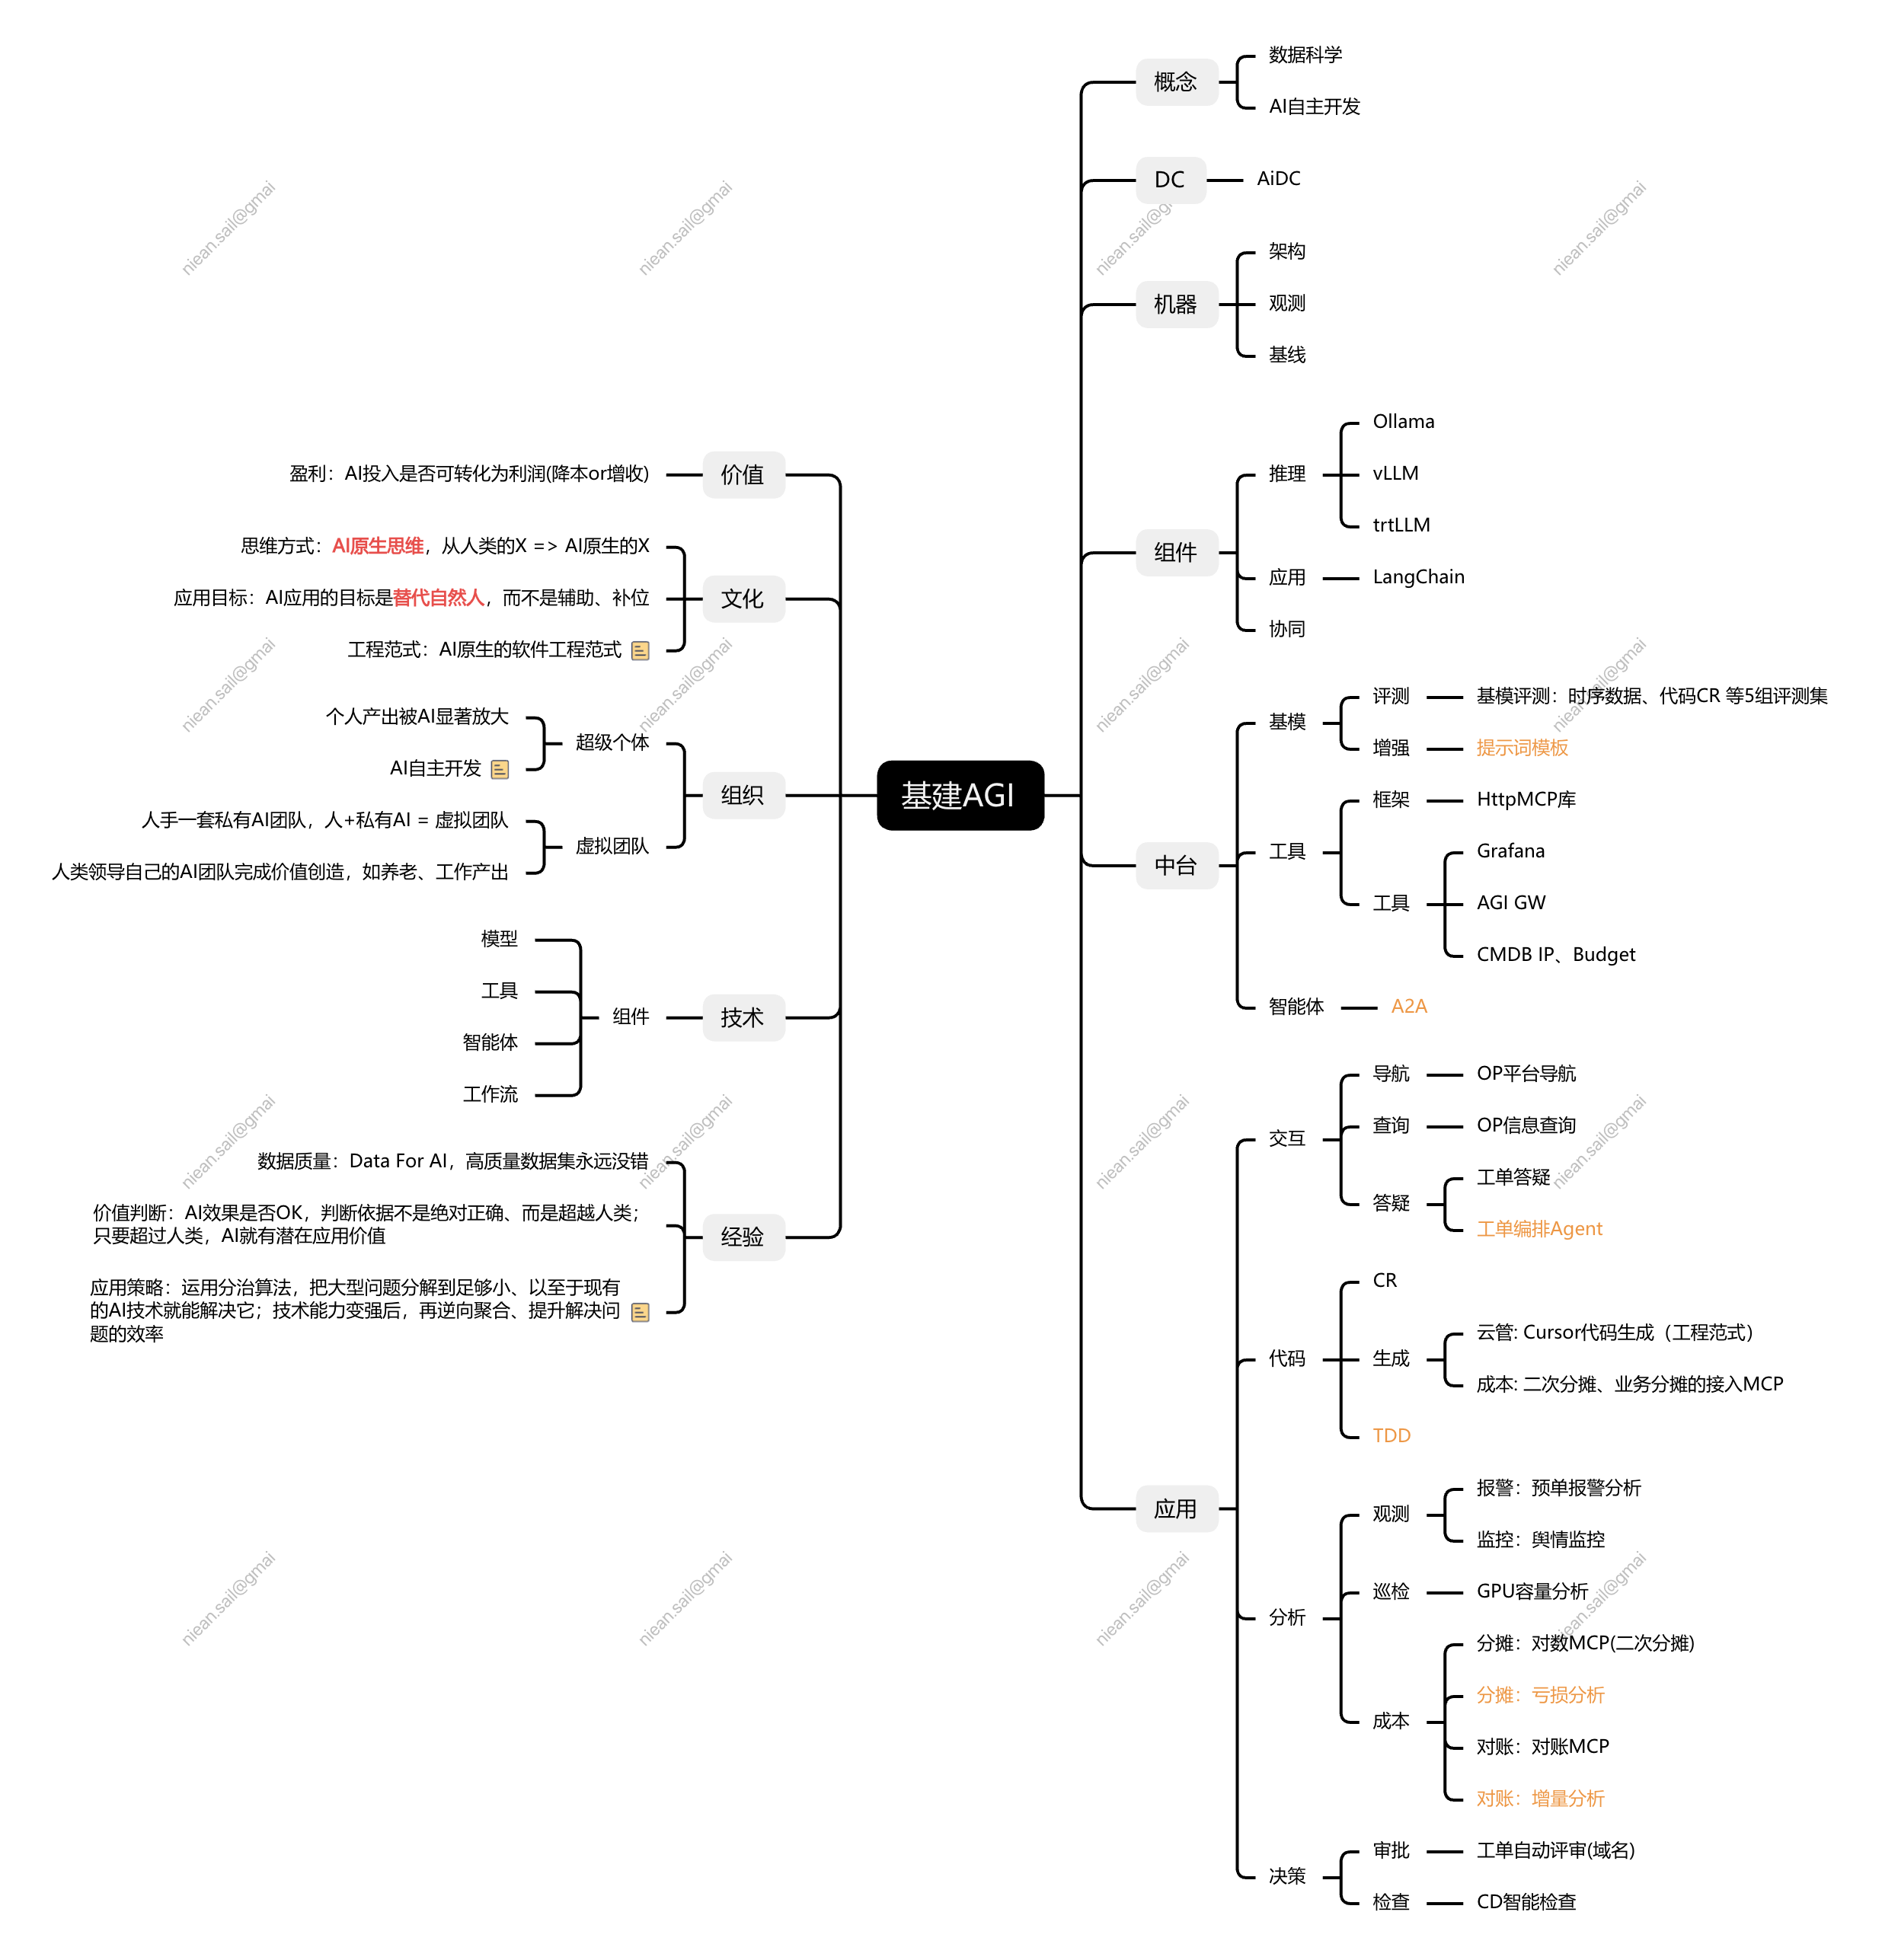
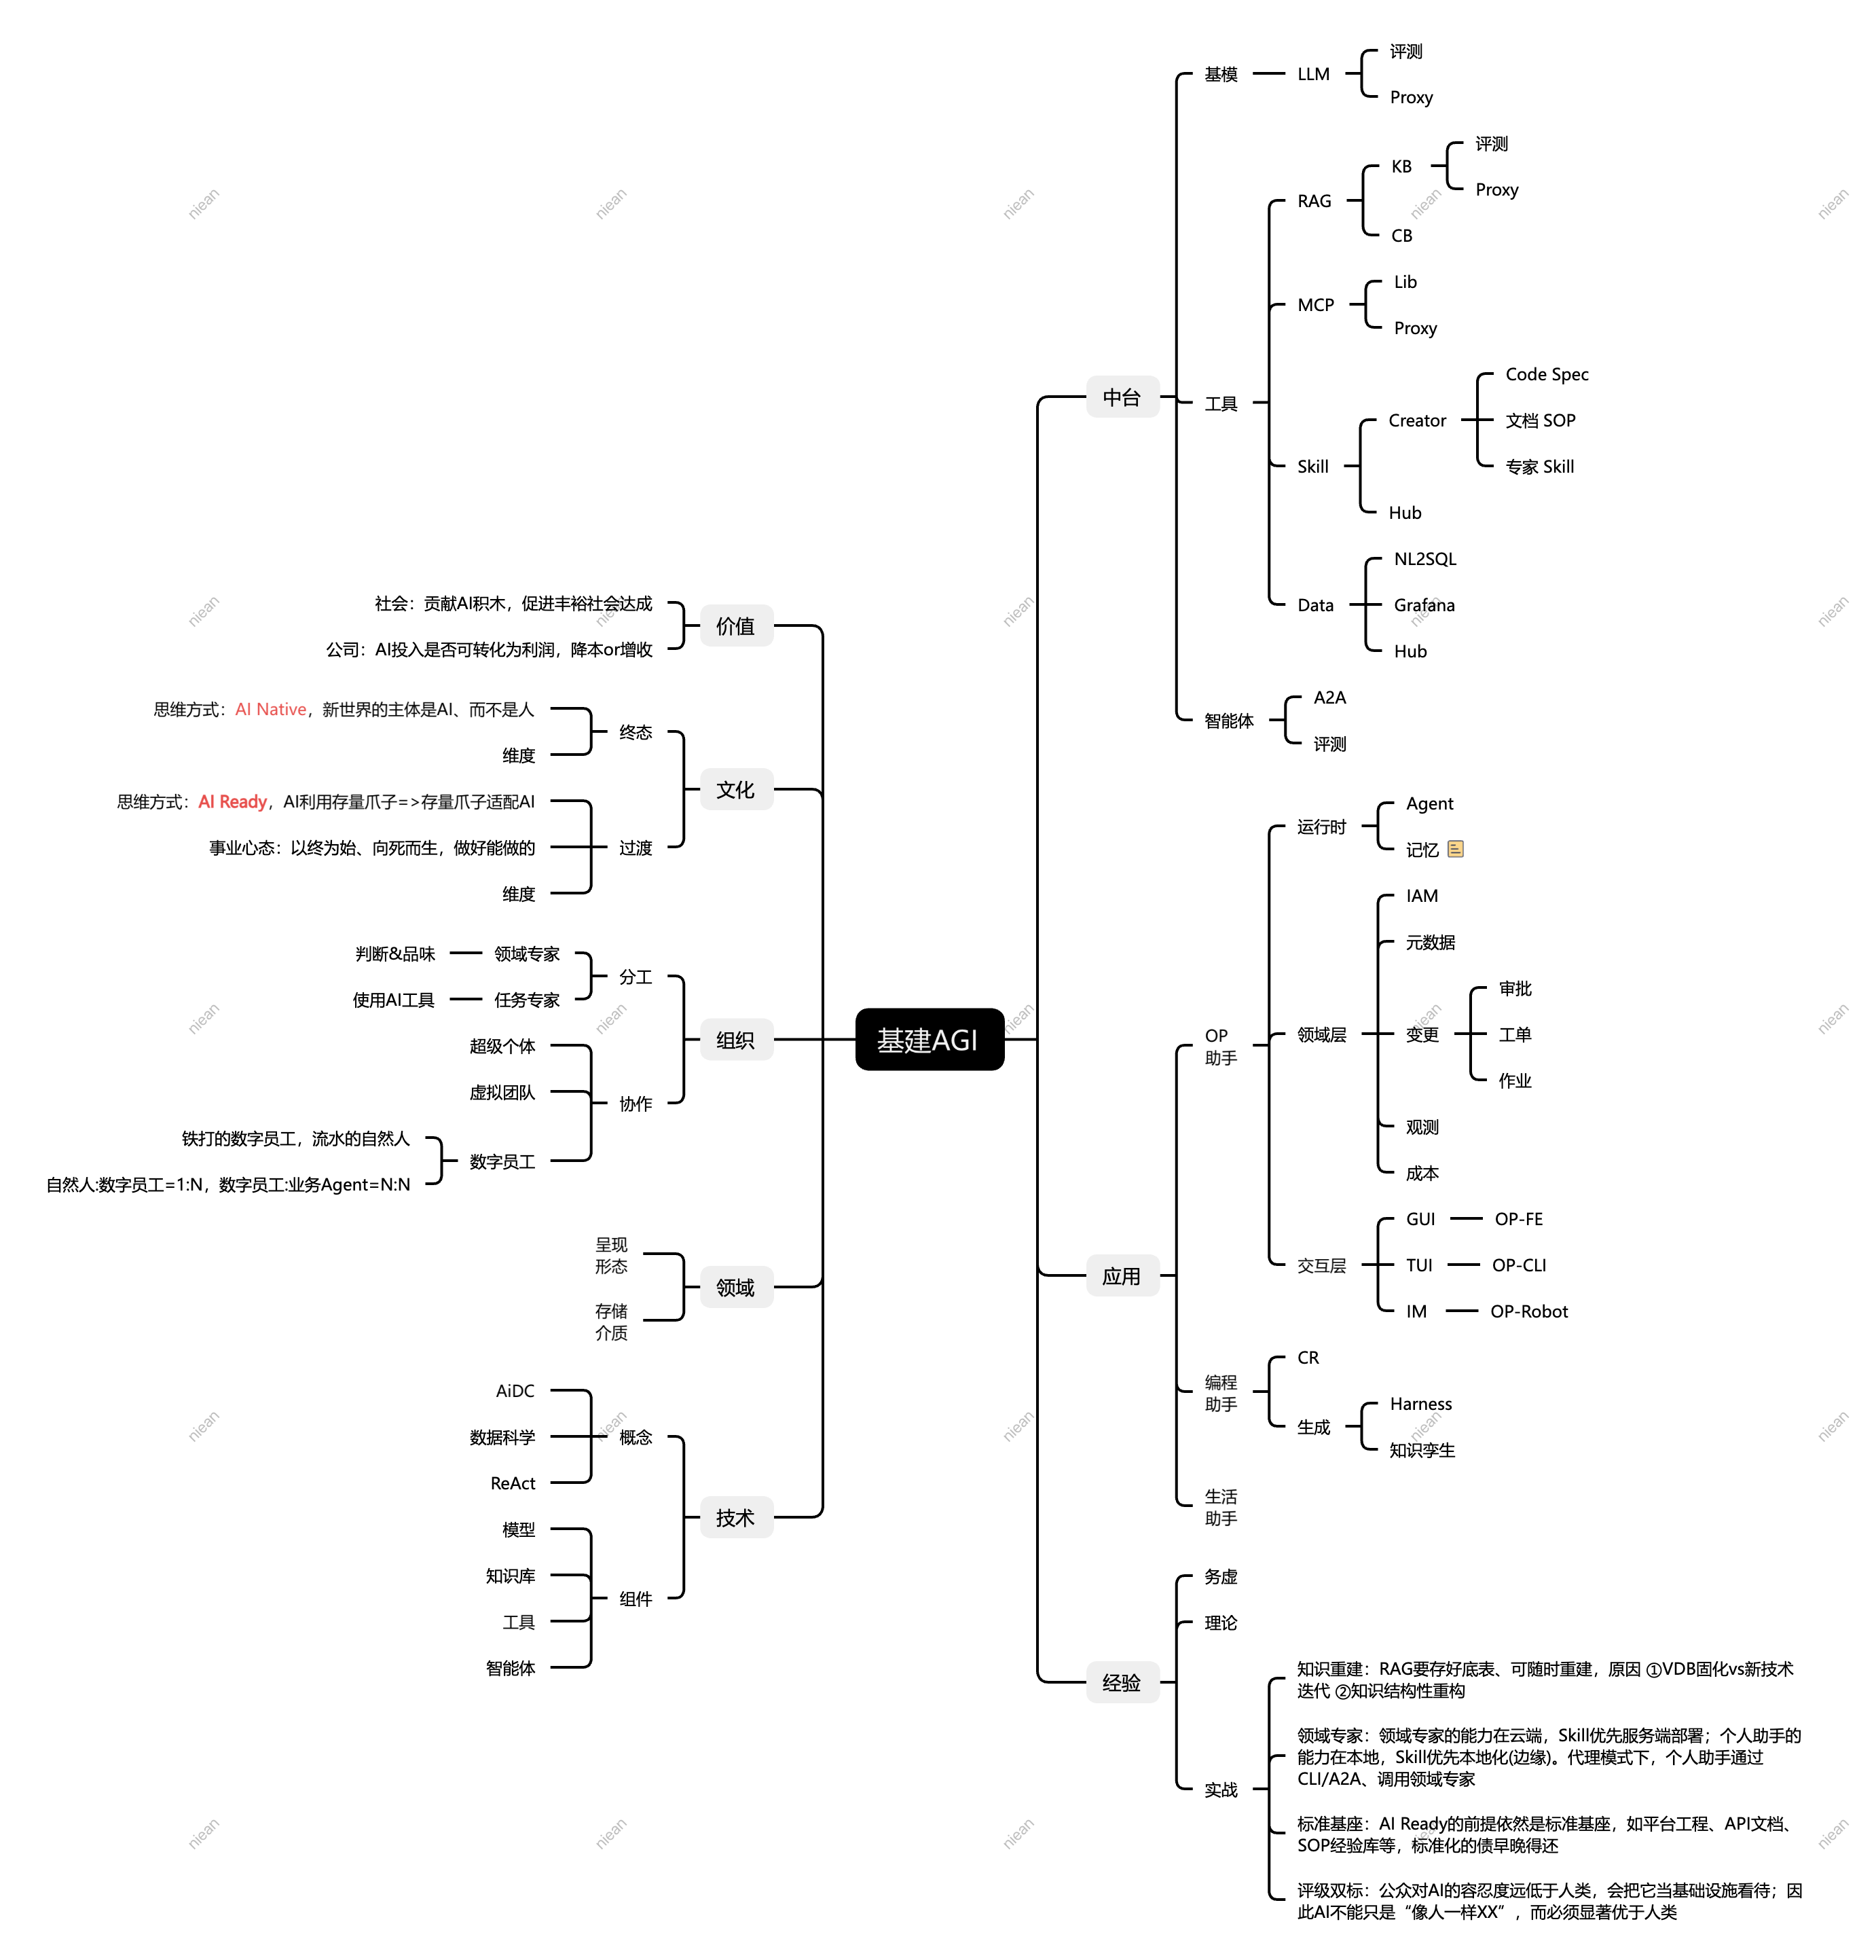
总结

diff --git a/_posts/2026-01-30-personal-summary.md b/_posts/2026-01-30-personal-summary.md
@@ -10,6 +10,25 @@ tags:
 在作业帮工作7年了(2019-2026)，职业生涯的一半多。趁年底总结，把历年工作摘要放到一起，还不错、未虚度。顺手整理了第一个10年的[**技术历程**](https://blog.niean.name/about/)，心安、无憾。
 
 
+----
+## 运维服务化
+平台工程 ![pict](https://raw.githubusercontent.com/niean/niean.github.io/master/images/20220127/opas-zhengti-lingyumoxing.png)
+
+## 多云基建
+分级云管 ![pict](https://raw.githubusercontent.com/niean/niean.github.io/master/images/20220330/cmp-xmind.png)
+
+多云架构 ![pict](https://raw.githubusercontent.com/niean/niean.github.io/master/images/20210905/multicloud-arch.png)
+
+## 成本工程 FinOps
+组织模型 ![pict](https://raw.githubusercontent.com/niean/niean.github.io/master/images/20201118/finops-zuzhi.png)
+
+成本平台 ![pict](https://raw.githubusercontent.com/niean/niean.github.io/master/images/20201118/zybcost-arch.png)
+
+## 基建Agent
+![pict](https://raw.githubusercontent.com/niean/niean.github.io/master/images/20250408/agi-xmind.png)
+
+
+----
 ## 成长节点
 - 19H2
     - 横向思维：延续滴滴的运维方法论，主稳定性、代工模式、服务者心态+成事的态度，从19H2持续到21H1。横向思维，有广度有格局(低阶格局)、但过于散焦，专业根基浅、价值难长久 —— 技术专业首先由纵向构成